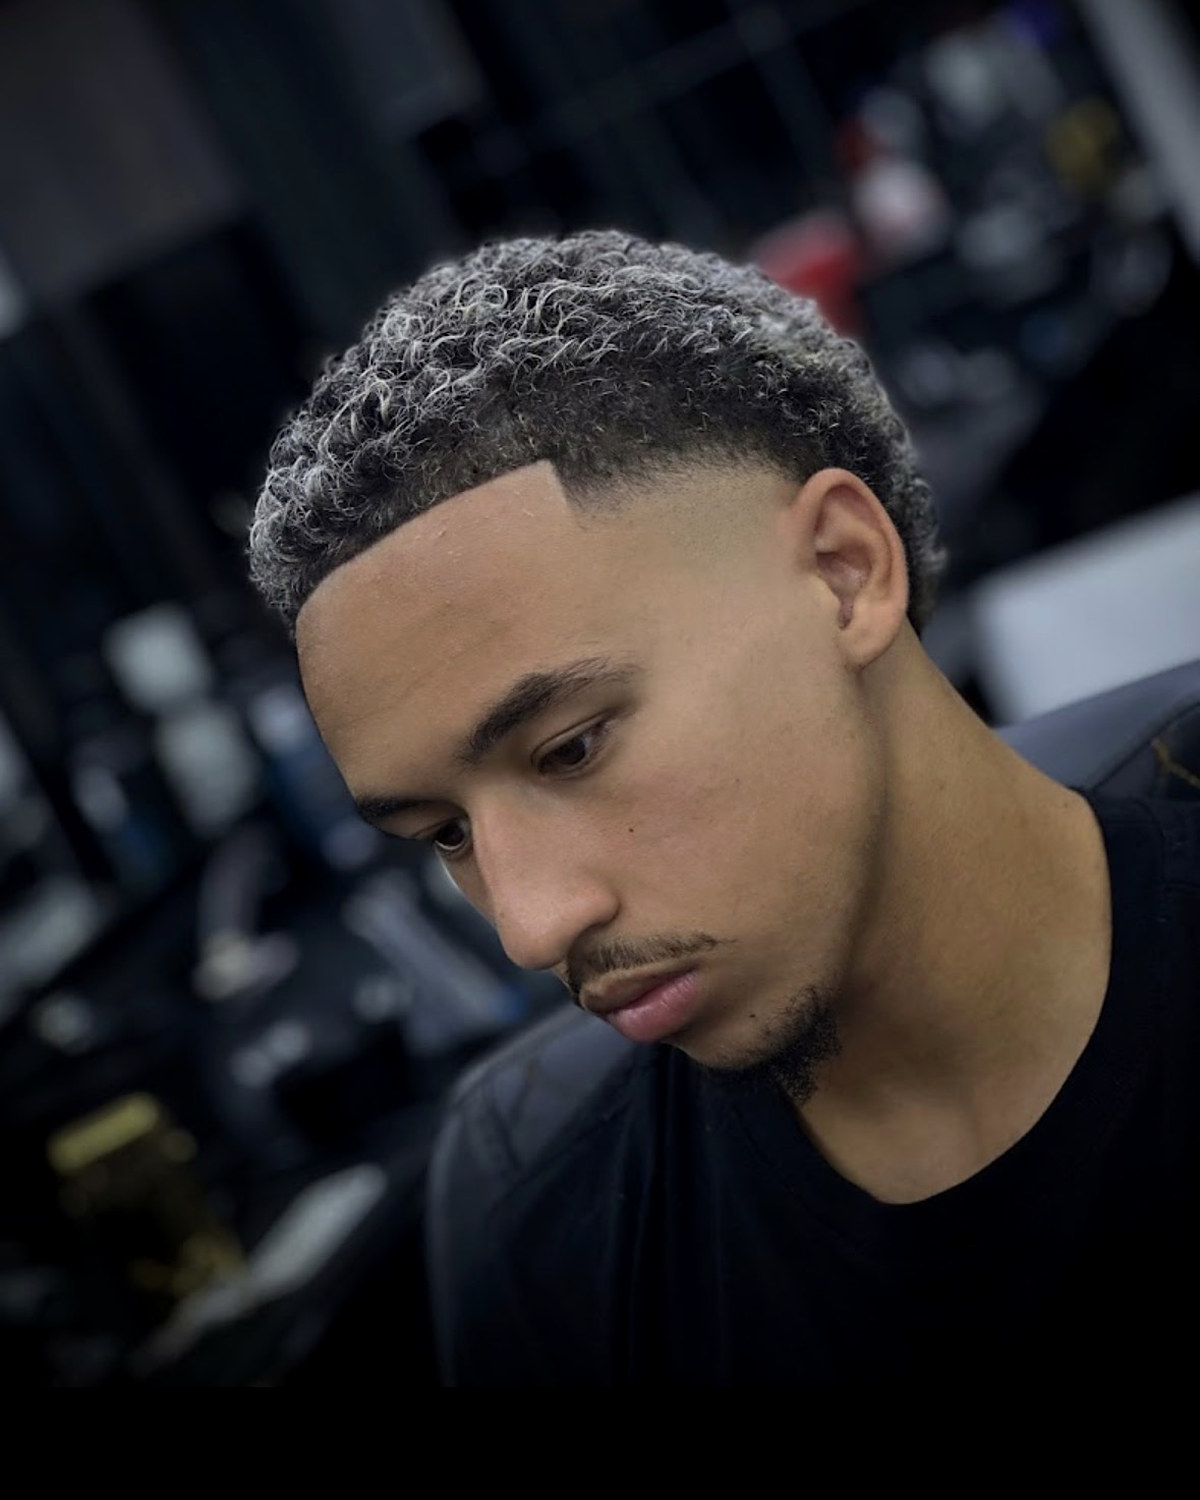
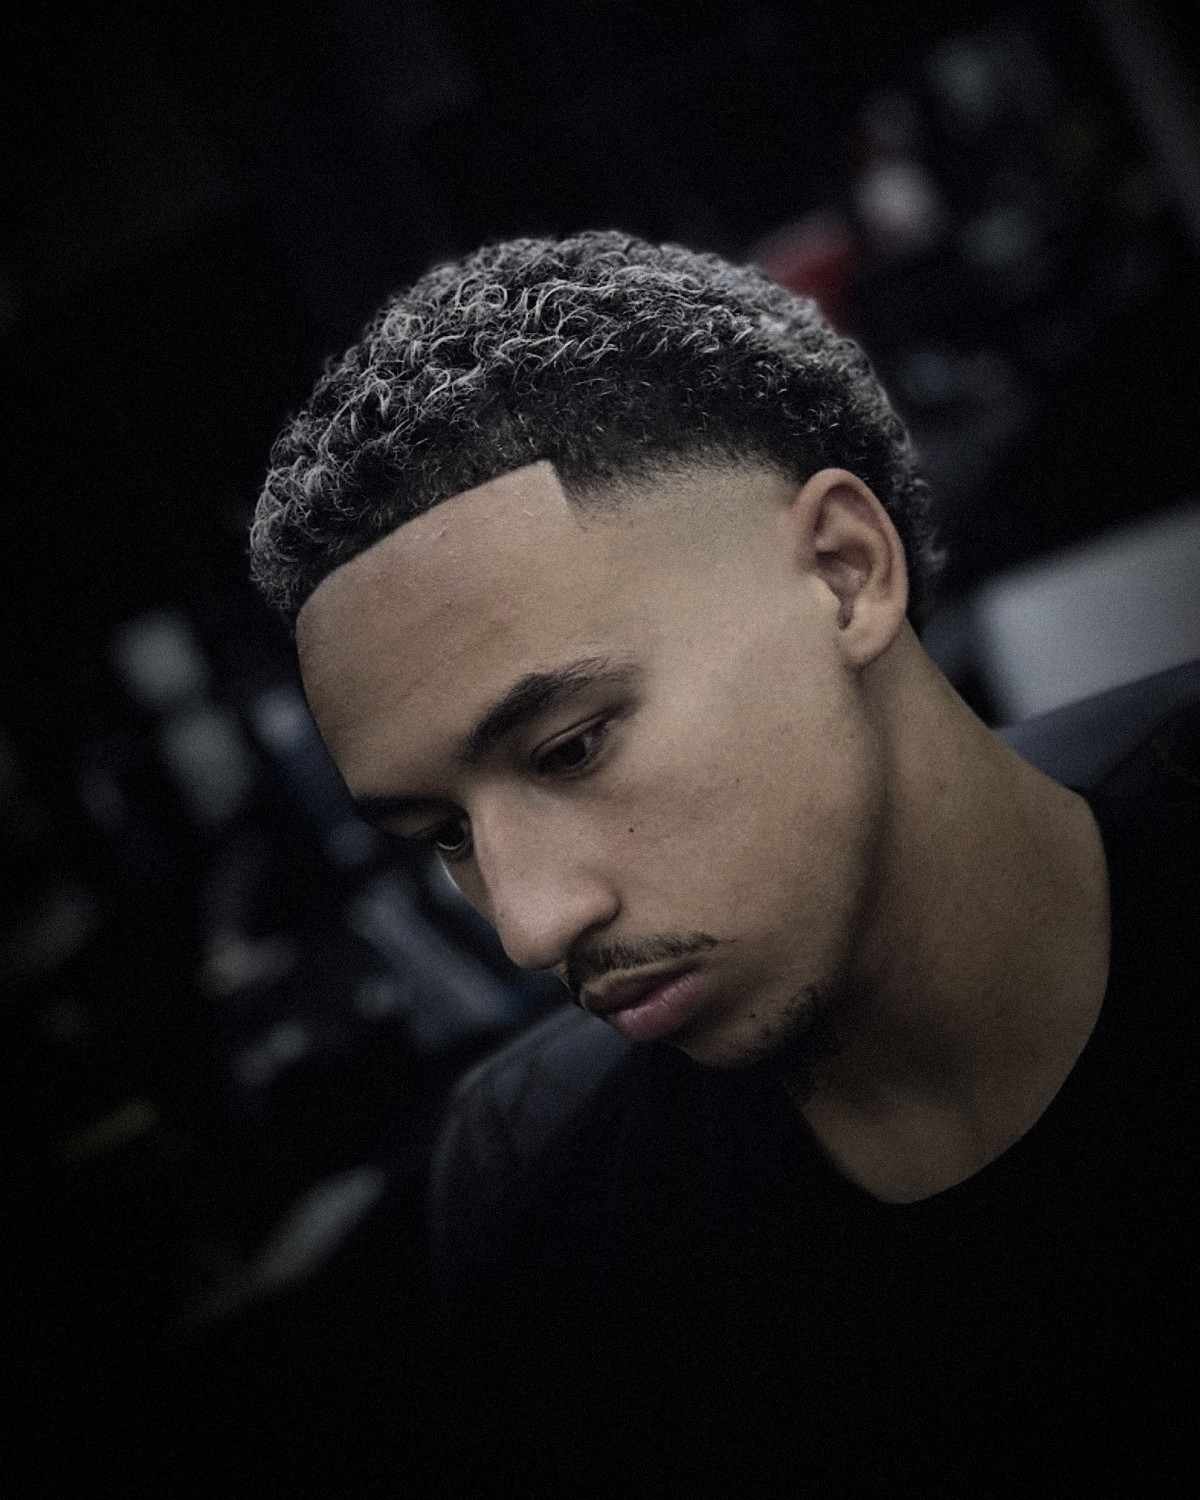
Prestations : photos étalonnées façon éditorial
Étalonnage commun aux cinq photos : couleurs plus sobres, noirs profonds,
ombres froides, vignettage qui efface les arrière-plans encombrés, grain
fin. Soin du visage recadré sur le geste. Filtre CSS retiré.

Claude-Session: https://claude.ai/code/session_01GNP9iCmSgibcJGnuJqLZRc

diff --git a/styles.css b/styles.css
@@ -165,7 +165,7 @@ button { background: none; border: 0; cursor: pointer; }
 .strips { display: flex; gap: 10px; height: min(76vh, 740px); min-height: 520px; }
 .strip { position: relative; isolation: isolate; flex: 1 1 0; min-width: 0; overflow: hidden; cursor: pointer; border-radius: 2px; transition: flex-grow 1.1s var(--slow); outline-offset: -3px; }
 .strip.is-on { flex-grow: 3.6; cursor: default; }
-.strip img { position: absolute; inset: 0; z-index: -3; width: 100%; height: 100%; object-fit: cover; object-position: 50% 30%; filter: saturate(.78) contrast(1.06); transform: scale(1.06); transition: transform 1.4s var(--slow); }
+.strip img { position: absolute; inset: 0; z-index: -3; width: 100%; height: 100%; object-fit: cover; object-position: 50% 30%; transform: scale(1.06); transition: transform 1.4s var(--slow); }
 .strip.is-on img { animation: drift 14s ease-out .9s both; }
 @keyframes drift { from { transform: scale(1); } to { transform: scale(1.06); } }
 .strip::before { content: ""; position: absolute; inset: 0; z-index: -2; background: #09090b; opacity: .62; transition: opacity 1.1s ease; }
